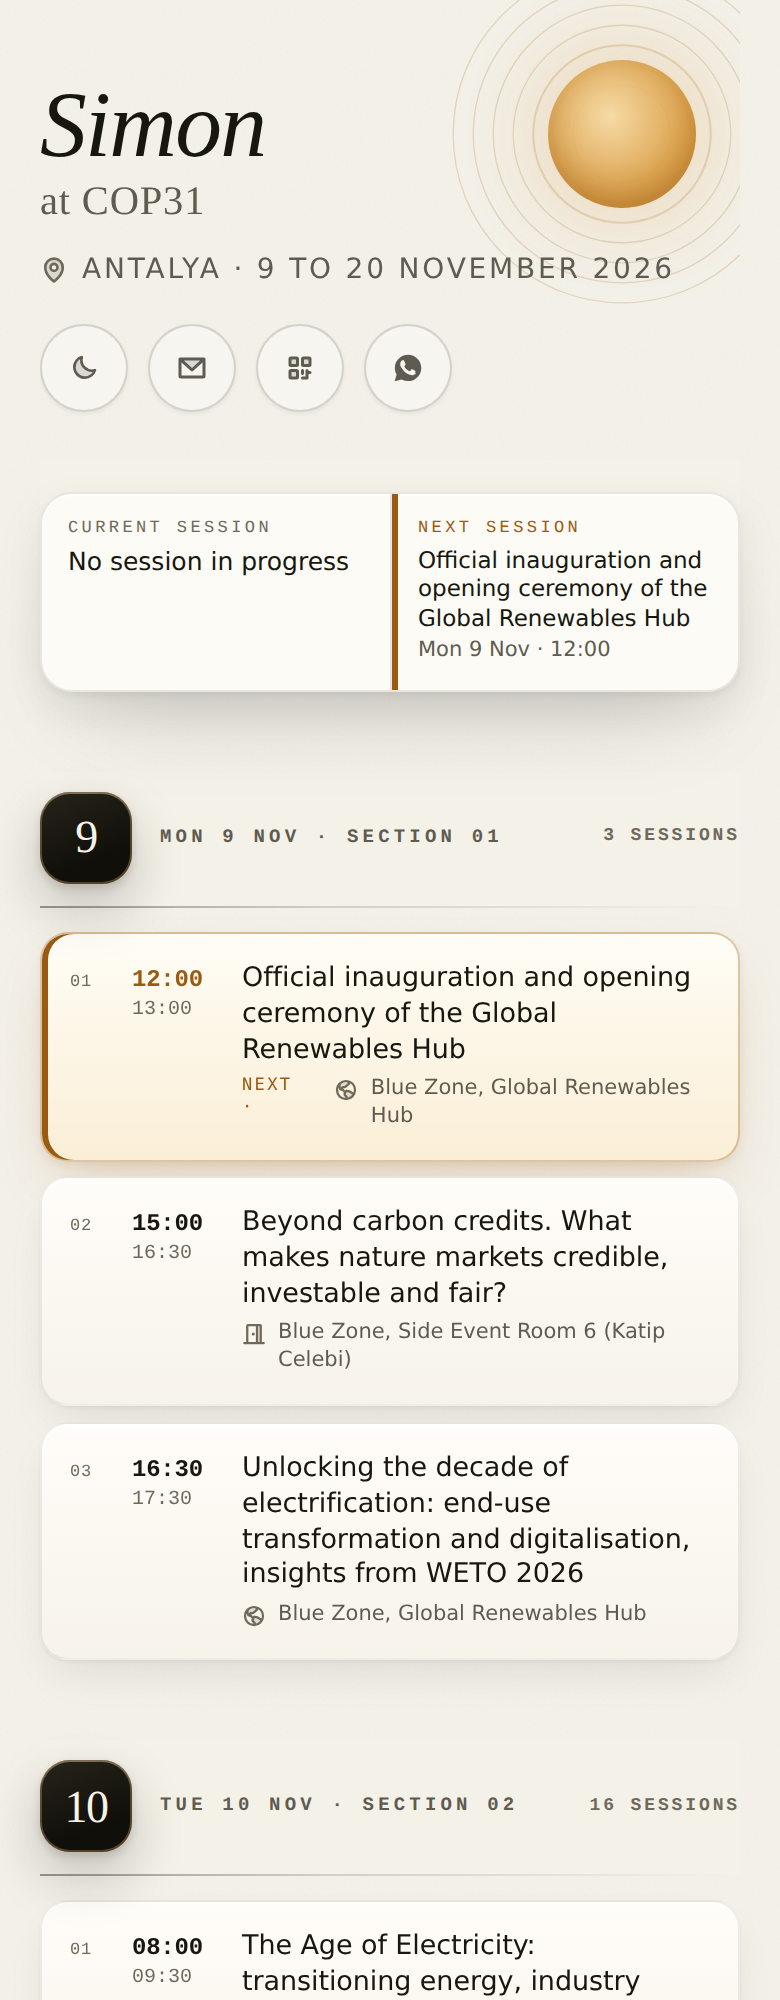
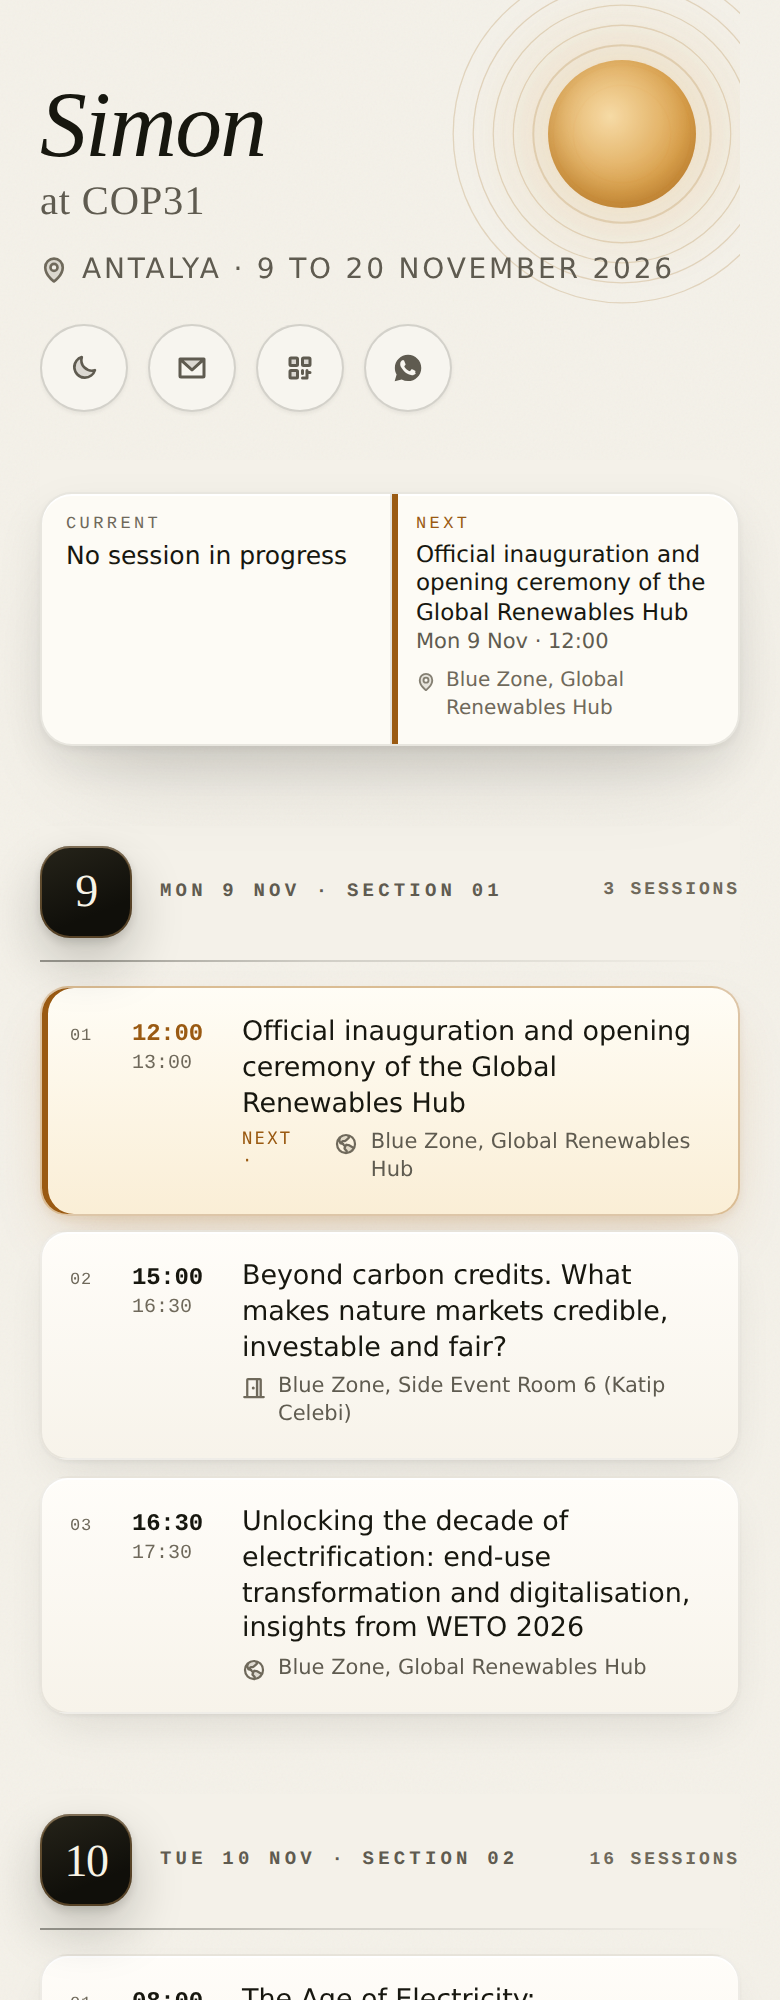
Running title: three lines so it does not ellipsise

diff --git a/docs/index.html b/docs/index.html
@@ -198,6 +198,7 @@ html[data-theme="dark"] #nextCell.has-next{box-shadow:inset 3px 0 0 var(--amber)
   .cell + .cell{border-left:0;border-top:1px solid var(--rule);padding-left:13px}
 }
 #nextCell.has-next .k{color:var(--amber)}
+#nowCell.live-now .v{-webkit-line-clamp:3}
 
 /* days */
 section.day{margin-top:40px}
@@ -375,7 +376,7 @@ footer{margin:30px 0 0}
     <span class="left"><svg class="ic-btn" aria-hidden="true"><use href="#i-map-trifold"></use></svg> Blue Zone map, PDF</span>
     <span class="ext"><svg class="ic-ext" aria-hidden="true"><use href="#i-arrow-square-out"></use></svg></span>
   </a>
-  <p class="colophon"><span>UTC+3 &middot; 55 sessions &middot; updated 8 Nov, 17:06</span></p>
+  <p class="colophon"><span>UTC+3 &middot; 55 sessions &middot; updated 8 Nov, 17:08</span></p>
 </footer>
 </main>
 
